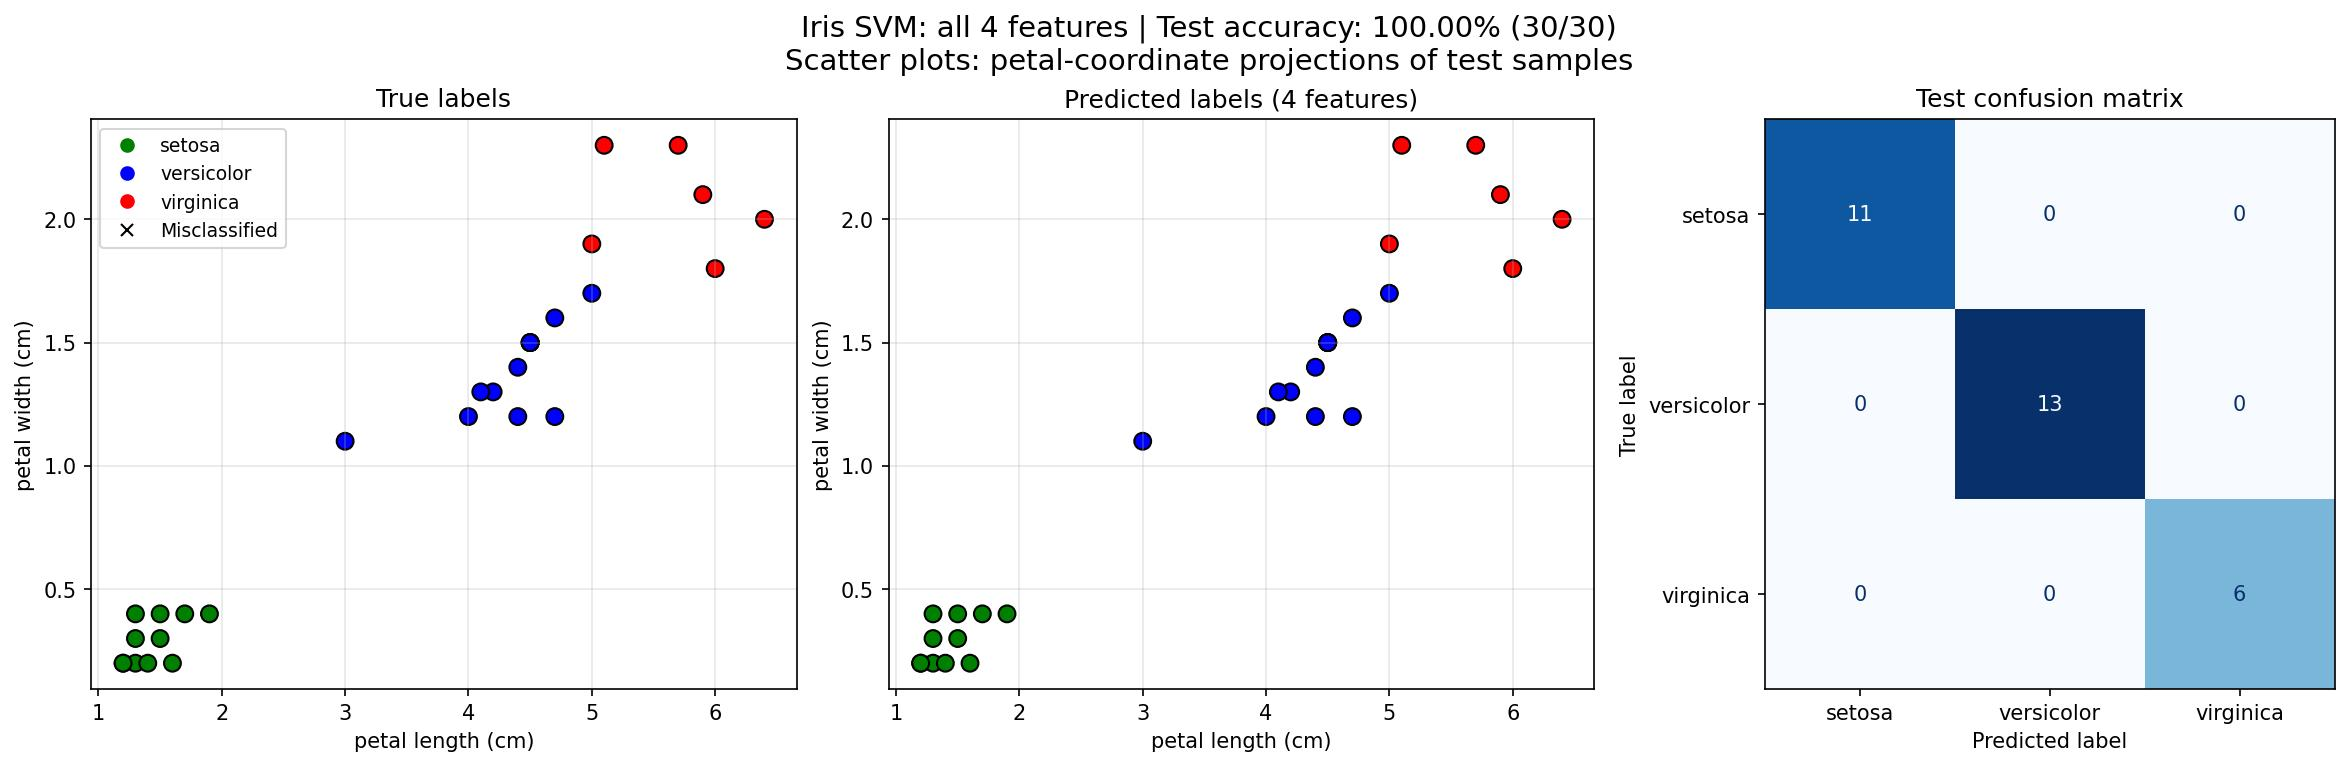
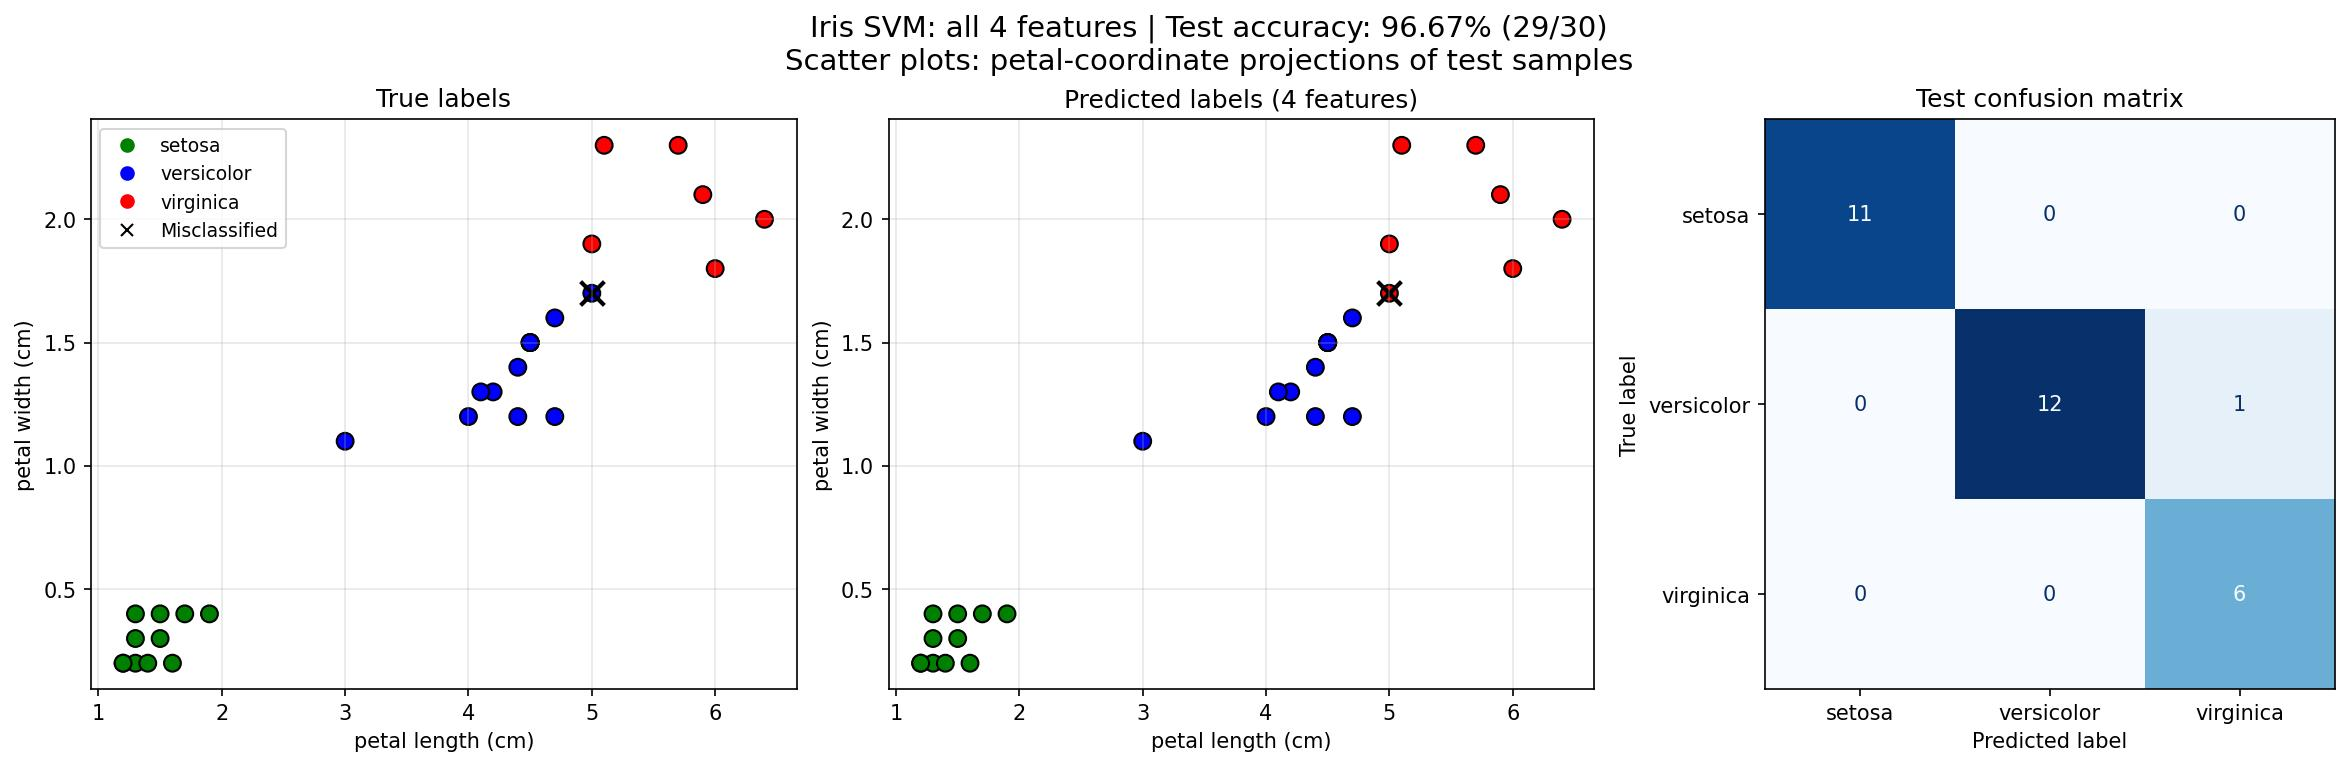
adding find-best-c test

Changed region(s): [[0.3418, 0.0, 0.6837, 0.06], [0.5905, 0.3598, 0.6215, 0.3898], [0.2486, 0.3598, 0.2797, 0.3898]]

diff --git a/src/train.py b/src/train.py
@@ -1,3 +1,5 @@
+from typing import Tuple
+
 import numpy as np
 from sklearn import svm 
 
@@ -6,15 +8,25 @@ def classifier() -> svm.SVC :
     """ 构建分类器函数 """
     clf = svm.SVC(
         C=0.8, # 误分类惩罚系数，控制间隔大小与训练误差之间的权衡
-        kernel='linear', # 设置核函数：当前为'Linear'
+        kernel='linear', # 可选内置核：linear、poly、rbf、sigmoid
         decision_function_shape='ovr' # 决策函数：计算分类分数；ovr本质上是ovo（两两比较）
     )
-
     return clf
+
+
+def classifier_change_c(c_in: float) -> svm.SVC :
+    """ 构建分类器函数， 传入C的值 """
+    clf = svm.SVC(
+        C=c_in, # 误分类惩罚系数，控制间隔大小与训练误差之间的权衡
+        kernel='linear', # 可选内置核：linear、poly、rbf、sigmoid
+        decision_function_shape='ovr' # 决策函数：计算分类分数；ovr本质上是ovo（两两比较）
+    )
+    return clf
+
 
 def train(clf :svm.SVC, x_train: np.ndarray, y_train: np.ndarray) -> None :
     """ SVM训练函数 """
-    clf.fit(x_train, y_train.ravel()) # ravel()将y_train展开成一维行向量
+    clf.fit(x_train, y_train.ravel()) # ravel()将标签展开成一维数组
 
 
 def train_and_evaluate(
@@ -30,10 +42,27 @@ def train_and_evaluate(
     return clf
 
 
-def show_accuracy(y_predict: np.ndarray, y_trian: np.ndarray, tip: str) -> None :
-    """ 判断a,b是否相等计算acc的均值 """
+def train_and_evaluate_change_c(
+        x_train: np.ndarray, y_train: np.ndarray,
+        x_test: np.ndarray, y_test: np.ndarray, feature_name: str,
+        c_in: float
+        ) -> Tuple[svm.SVC, float]:
+    """每组特征独立训练一个模型, 使用相同参数并输出对应准确率。改变c实验"""
+
+    clf = classifier_change_c(c_in)
+    train(clf, x_train, y_train)
+    print('\n================ %s (%d features, C=%g) ================'
+          % (feature_name, x_train.shape[1], c_in))
+    test_accuracy = print_accuracy(clf, x_train, y_train, x_test, y_test)
+    return clf, test_accuracy
+
+
+def show_accuracy(y_predict: np.ndarray, y_trian: np.ndarray, tip: str) -> float:
+    """打印并返回预测结果相对于真实标签的准确率。"""
     acc = y_predict.ravel() == y_trian.ravel() # acc是一个bool型的数组
-    print('%s Accuracy:%.3f' %(tip, np.mean(acc))) # mean(acc) 计算正确率
+    accuracy = np.mean(acc)
+    print('%s Accuracy:%.3f' %(tip, accuracy))
+    return accuracy
 
     
 def print_accuracy(
@@ -42,17 +71,19 @@ def print_accuracy(
         y_train: np.ndarray, 
         x_test: np.ndarray, 
         y_test: np.ndarray
-        ) -> None :
-    """ 分别打印训练集和测试集的准确率 
+        ) -> float:
+    """分别打印准确率，并返回测试集准确率。
+
         score(x_train, y_train)表示输出 x_train,y_train在模型上的准确率 
     """
 
-    print('training prediction:%.3f' %(clf.score(x_train, y_train))) # clf.score(x_train, y_train) 模型在训练集准确率（隐式）
-    print('test data prediction:%.3f' %(clf.score(x_test, y_test))) # clf.score(x_test, y_test) 模型在测试集准确率（隐式）
+    print('training prediction:%.3f' %(clf.score(x_train, y_train.ravel()))) # 训练集准确率（隐式）
+    print('test data prediction:%.3f' %(clf.score(x_test, y_test.ravel()))) # 测试集准确率（隐式）
     
     # 原始结果和预测结果进行对比 predict() 表示对x_train样本进行预测,返回样本类别
     show_accuracy(clf.predict(x_train), y_train, 'traing data') # 训练集准确率（显式）
-    show_accuracy(clf.predict(x_test), y_test, 'testing data') # 测试集准确率（显式）
+    test_accuracy = show_accuracy(clf.predict(x_test), y_test, 'testing data')
     
     # ovr 返回各类别的决策分数，不是概率，也不是各分割面的几何距离
-    print('decision_function:\n', clf.decision_function(x_train))
+    # print('decision_function:\n', clf.decision_function(x_train))
+    return test_accuracy

diff --git a/src/main.py b/src/main.py
@@ -1,6 +1,8 @@
 import data
 import train
 import plot_img
+import numpy as np
+from typing import List, Tuple
 
 
 def run_sepal() -> None:
@@ -27,9 +29,63 @@ def run_all_features() -> None:
     plot_img.draw_all_features(clf, x_test, y_test)
 
 
+def _find_best_c(
+        x_train, y_train, x_test, y_test, feature_name: str, c_list: List[float]
+        ) -> Tuple[float, float]:
+    """遍历候选 C，返回测试集准确率最高的 C 和对应准确率。"""
+    if not c_list:
+        raise ValueError('c_list 不能为空。')
+
+    best_c = c_list[0]
+    best_accuracy = -1.0
+    for c in c_list:
+        _, test_accuracy = train.train_and_evaluate_change_c(
+            x_train, y_train, x_test, y_test, feature_name, c)
+        # 使用 > 而非 >=：准确率相同时，保留 c_list 中较早的较小 C。
+        if test_accuracy > best_accuracy:
+            best_c = c
+            best_accuracy = test_accuracy
+
+    print('\n%s best C: %g, test accuracy: %.3f'
+          % (feature_name, best_c, best_accuracy))
+    return best_c, best_accuracy
+
+
+def run_sepal_change_c(c_list: List[float]) -> Tuple[float, float]:
+    """原实验：只使用萼片长度、宽度。"""
+    x, y, x_train, x_test, y_train, y_test = data.iris_load_data()
+
+    return _find_best_c(x_train, y_train, x_test, y_test, 'Sepal', c_list)
+
+
+def run_petal_change_c(c_list: List[float]) -> Tuple[float, float]:
+    """新增实验：只使用花瓣长度、宽度。"""
+    x, y, x_train, x_test, y_train, y_test = data.iris_load_petal_data()
+
+    return _find_best_c(x_train, y_train, x_test, y_test, 'Petal', c_list)
+
+
+def run_all_features_change_c(c_list: List[float]) -> Tuple[float, float]:
+    """新增实验：使用全部四个特征，展示测试集预测结果。"""
+    x, y, x_train, x_test, y_train, y_test = data.iris_load_all_data()
+
+    return _find_best_c(x_train, y_train, x_test, y_test, 'All features', c_list)
+
+
 if __name__ == "__main__":
     # 保持模型参数和划分方式不变，依次比较三组特征。
     # 使用交互式绘图后端时，关闭当前图窗后继续下一组实验。
-    run_sepal()
+    """run_sepal()
     run_petal()
     run_all_features()
+    """
+    c_list = np.linspace(0.001, 30, 300).tolist()
+    best_c_sepal, best_accuracy_sepal = run_sepal_change_c(c_list)
+    best_c_petal, best_accuracy_petal = run_petal_change_c(c_list)
+    best_c_all, best_accuracy_all = run_all_features_change_c(c_list)
+
+    print(
+        f"\nbest c in sepal = {best_c_sepal}, accuracy = {best_accuracy_sepal}\n",
+        f"best c in petal = {best_c_petal}, accuracy = {best_accuracy_petal}\n",
+        f"best c in all feature = {best_c_all}, accuracy = {best_accuracy_all}\n"
+    )

diff --git a/src/plot_img.py b/src/plot_img.py
@@ -8,7 +8,7 @@ from sklearn import svm
 from sklearn.metrics import ConfusionMatrixDisplay, confusion_matrix
 
 
-def draw(clf: svm.SVC, x: np.ndarray, y: np.ndarray, x_test: np.ndarray) -> None :   
+def draw(clf: svm.SVC, x: np.ndarray, y: np.ndarray, x_test: np.ndarray) -> None:
     """绘制原萼片模型的二维决策区域。"""
     _draw_2d(clf, x, y, x_test, ('sepal length', 'sepal width'),
              'Iris SVM: sepal features', 'SVM_sorting.jpg')
